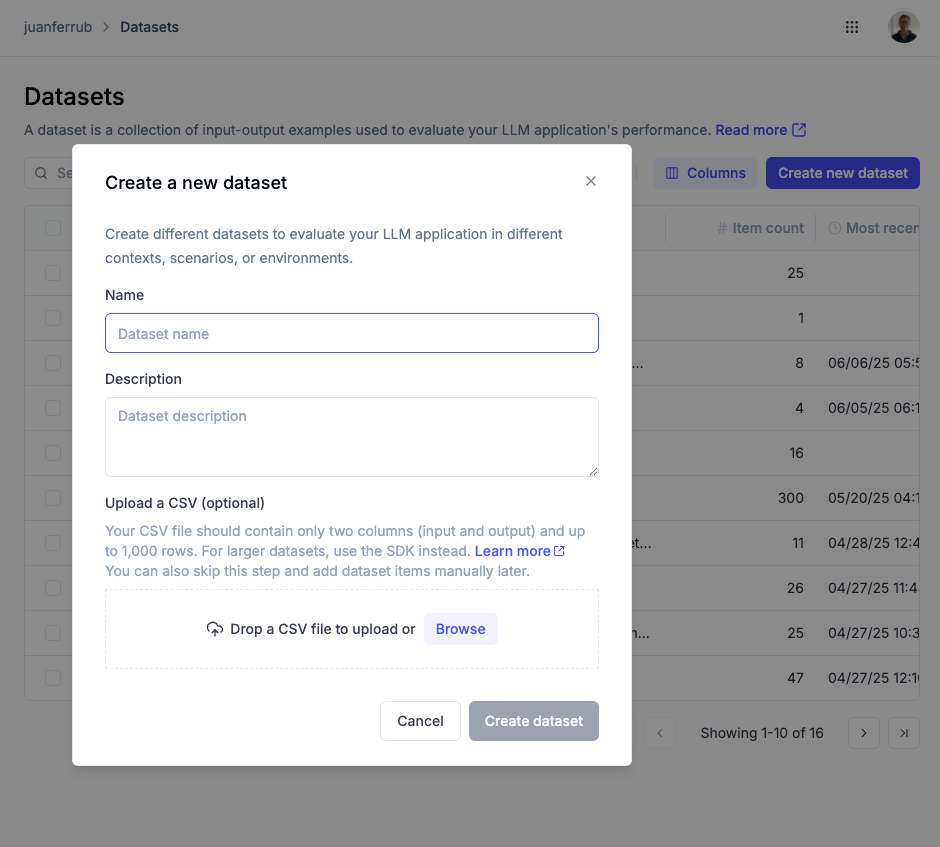
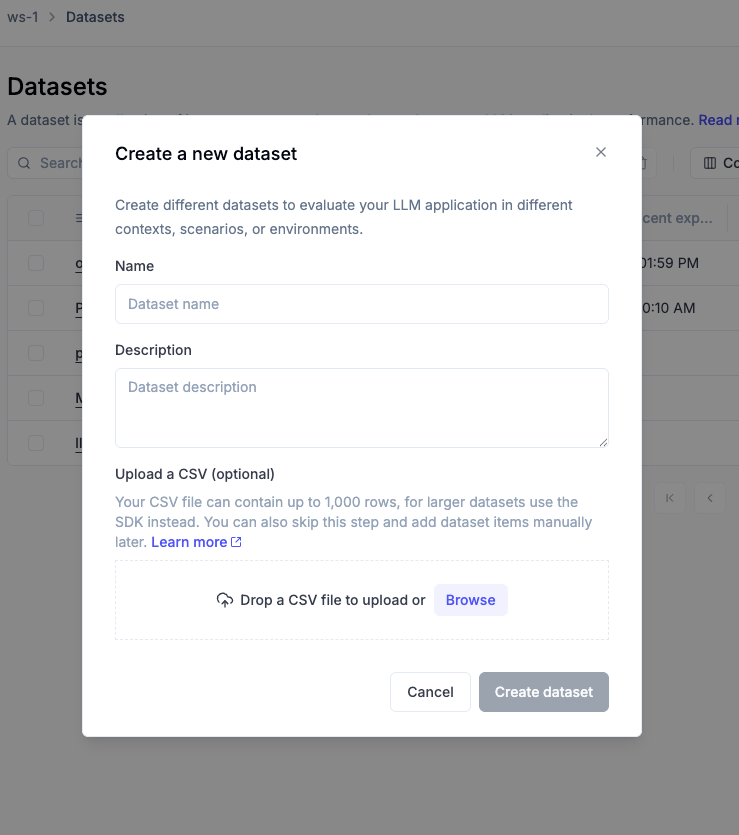
[NA] [Docs] Updated copy for uploading datasets as CSV (#3376)
* Updated csv dataset upload copy as we support many columns

* Fixed linter

* Optimised images with calibre/image-actions

* Apply suggestion from @user

* Apply suggestion from @user

* Missed doc update

* Fixed broken link checker

* Fix link checker

---------

diff --git a/apps/opik-frontend/src/components/pages/DatasetsPage/AddEditDatasetDialog.tsx b/apps/opik-frontend/src/components/pages/DatasetsPage/AddEditDatasetDialog.tsx
@@ -246,8 +246,9 @@ const AddEditDatasetDialog: React.FunctionComponent<
             <div className="flex flex-col gap-2 pb-4">
               <Label>Upload a CSV (optional)</Label>
               <Description className="tracking-normal">
-                Your CSV file should contain only two columns (input and output)
-                and up to 1,000 rows. For larger datasets, use the SDK instead.
+                Your CSV file can contain up to 1,000 rows, for larger datasets
+                use the SDK instead. You can also skip this step and add dataset
+                items manually later.
                 <Button variant="link" size="sm" className="h-5 px-1" asChild>
                   <a
                     href={buildDocsUrl("/evaluation/manage_datasets")}
@@ -258,9 +259,6 @@ const AddEditDatasetDialog: React.FunctionComponent<
                     <SquareArrowOutUpRight className="ml-0.5 size-3 shrink-0" />
                   </a>
                 </Button>
-                <br />
-                You can also skip this step and add dataset items manually
-                later.
               </Description>
               <UploadField
                 disabled={isEdit}